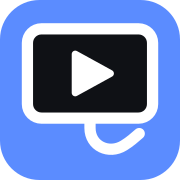
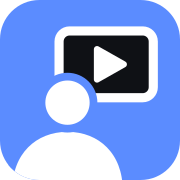
Renomeia o projeto para Overshoulder e troca o ícone
O nome Owncord já é usado por outro clone open source do Discord.
O ícone novo mostra uma pessoa vista por cima do ombro olhando uma tela
com o botão de play, nas mesmas cores do app. Um teste confere o nome e
o ícone nas páginas.

diff --git a/app/public/room.html b/app/public/room.html
@@ -3,7 +3,7 @@
 <head>
   <meta charset="utf-8">
   <meta name="viewport" content="width=device-width, initial-scale=1">
-  <title>Owncord · Sala</title>
+  <title>Overshoulder · Sala</title>
   <link rel="icon" href="/static/icon.svg" type="image/svg+xml">
   <link rel="apple-touch-icon" href="/static/icon-180.png">
   <link rel="stylesheet" href="/static/style.css">
@@ -12,7 +12,7 @@
 <body>
   <!-- Tela de entrada: o clique em "Entrar" também libera o autoplay de áudio -->
   <main id="join" class="home">
-    <h1 class="brand"><img src="/static/icon.svg" alt="" width="36" height="36">Owncord</h1>
+    <h1 class="brand"><img src="/static/icon.svg" alt="" width="36" height="36">Overshoulder</h1>
     <form id="join-form" class="card">
       <label for="name">Seu nome</label>
       <input id="name" maxlength="32" autocomplete="nickname" required>

diff --git a/app/public/index.html b/app/public/index.html
@@ -3,7 +3,7 @@
 <head>
   <meta charset="utf-8">
   <meta name="viewport" content="width=device-width, initial-scale=1">
-  <title>Owncord</title>
+  <title>Overshoulder</title>
   <link rel="icon" href="/static/icon.svg" type="image/svg+xml">
   <link rel="apple-touch-icon" href="/static/icon-180.png">
   <link rel="stylesheet" href="/static/style.css">
@@ -11,7 +11,7 @@
 </head>
 <body>
   <main class="home">
-    <h1 class="brand"><img src="/static/icon.svg" alt="" width="36" height="36">Owncord</h1>
+    <h1 class="brand"><img src="/static/icon.svg" alt="" width="36" height="36">Overshoulder</h1>
     <p class="muted">Compartilhe a tela do seu jogo com os amigos, direto no navegador e com criptografia de ponta a ponta.</p>
 
     <form id="create" class="card">

diff --git a/app/test/server.test.js b/app/test/server.test.js
@@ -22,6 +22,15 @@ describe('arquivos', () => {
     assert.match(await res.text(), /<title>[^<]+<\/title>/);
   });
 
+  test('páginas usam o nome Overshoulder e o ícone', async () => {
+    for (const route of ['/', `/r/${'a'.repeat(22)}`]) {
+      const html = await (await fetch(base + route)).text();
+      assert.match(html, /<title>Overshoulder/, route);
+      assert.match(html, /class="brand"><img src="\/static\/icon\.svg"[^>]*>Overshoulder</, route);
+      assert.match(html, /rel="icon" href="\/static\/icon\.svg"/, route);
+    }
+  });
+
   test('página da sala responde em /r/<id>', async () => {
     const res = await fetch(`${base}/r/${'a'.repeat(22)}`);
     assert.equal(res.status, 200);

diff --git a/app/server.js b/app/server.js
@@ -221,4 +221,4 @@ const server = http.createServer(async (req, res) => {
   }
 });
 
-server.listen(PORT, '127.0.0.1', () => console.log(`Owncord ouvindo em http://127.0.0.1:${PORT}`));
+server.listen(PORT, '127.0.0.1', () => console.log(`Overshoulder ouvindo em http://127.0.0.1:${PORT}`));

diff --git a/docs/PLANO.md b/docs/PLANO.md
@@ -4,8 +4,8 @@ Decidido em 08/11/2026. Ponto de partida para continuar o trabalho: nada daqui f
 
 ## Onde paramos
 
-- Nome e ícone ainda são **Owncord** (cabo saindo da tela). A troca para Overshoulder é a etapa 1.
-- O projeto **não está no git**.
+- Etapa 0 feita: git local e testes automáticos (`./scripts/test.sh`).
+- Etapa 1 feita: nome **Overshoulder** e ícone novo (pessoa vista por cima do ombro olhando uma tela).
 - A pasta do projeto foi renomeada em 14/11/2026 para `/home/diolinux/claude/overshoulder` (antes `owncord`). Em 14/11/2026 a instância de teste foi religada na pasta nova (containers `overshoulder-*`). Para subir de novo nesta máquina, o Discourse ocupa a porta 80, então use a 8443: `export CADDY_GLOBAL_OPTIONS=$'local_certs\nhttp_port 8081\nhttps_port 8443' LIVEKIT_PUBLIC_URL=wss://192.168.0.102:8443` e depois `docker compose up -d --build`.
 - O `.env` local tem a senha `senha-teste`: só serve para testes.
 - A transmissão real (vídeo, áudio, E2EE e chat) ainda não foi testada num navegador, nem antes nem depois da troca de nome.

diff --git a/README.md b/README.md
@@ -1,4 +1,4 @@
-# Owncord
+# Overshoulder
 
 Compartilhamento de tela para jogar com os amigos, direto no navegador. Quem transmite e quem assiste só precisam abrir um link.
 
@@ -50,7 +50,7 @@ docker compose up -d --build
 Acesse `https://<seu-ip>`. Precisa ser HTTPS: os navegadores bloqueiam compartilhamento de tela e criptografia em `http://` fora do `localhost`. O Caddy gera um certificado próprio, então na primeira vez cada navegador mostra um aviso ("Avançado" > "Continuar").
 
 Para remover o aviso de vez num aparelho, instale a CA do Caddy nele:
-`docker compose cp caddy:/data/caddy/pki/authorities/local/root.crt owncord-ca.crt`
+`docker compose cp caddy:/data/caddy/pki/authorities/local/root.crt overshoulder-ca.crt`
 
 Se a máquina tiver firewall ativo, libere 80/443 TCP, 7881 TCP e 50000–60000 UDP.
 
